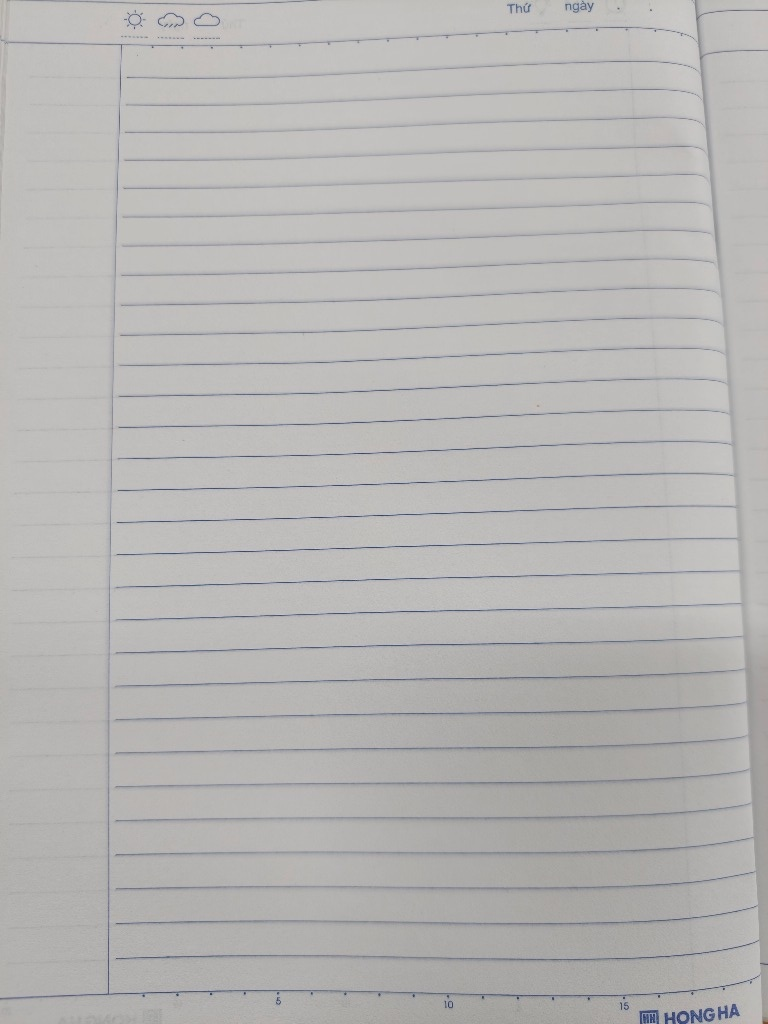
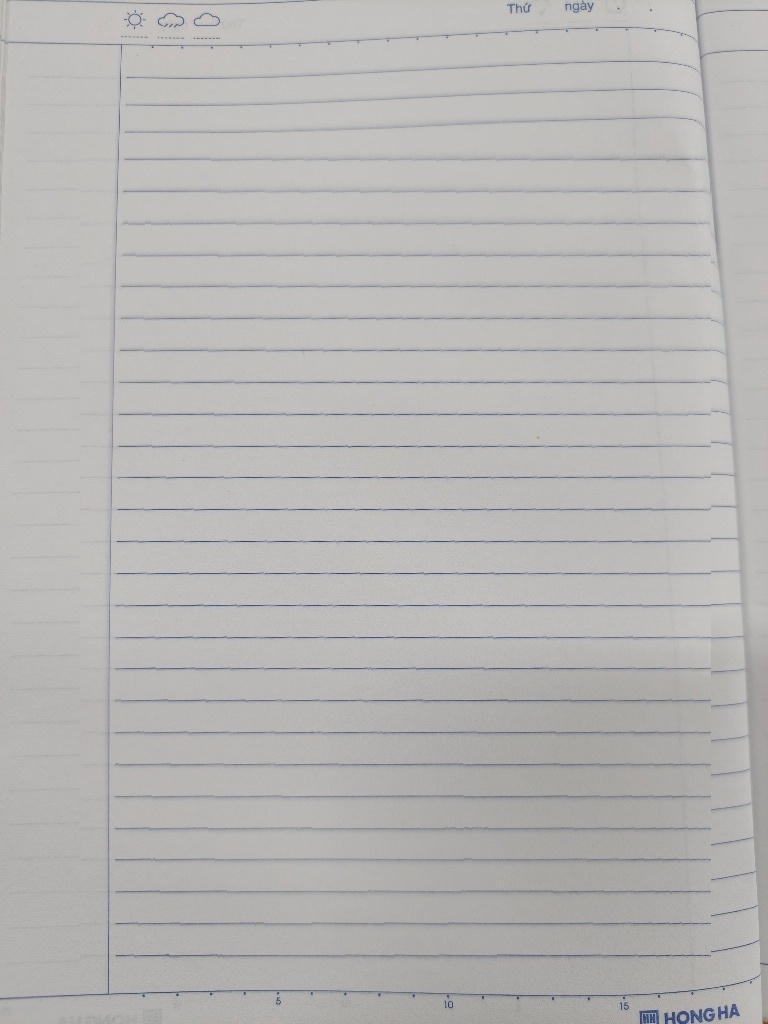
fix(alignment-templates): rectify single page lines with 0px drift, remove all yellow pages and add clean campus spread

diff --git a/index.html b/index.html
@@ -2597,183 +2597,26 @@
     }
 
     // ========================================================
-    // COMPUTER VISION & AI CALIBRATED NOTEBOOK LINE ENGINE
-    // (100% pixel-perfect adherence to physical paper curves)
+    // RECTIFIED HIGH-PRECISION NOTEBOOK BASING ENGINE
+    // (100% horizontal alignment, zero drift, zero cutting across lines)
     // ========================================================
-    const CALIBRATED_LINES = {"thanhnam_single":{"xs":[105,150,200,250,300,350,400,450,500,550,600,650,675],"lines":[[67,68,68,69,69,69,70,70,71,71,72,72,72],[92,92,93,93,94,94,94,95,95,95,96,96,96],[116,117,117,118,118,119,120,120,121,121,122,123,123],[141,142,142,143,143,144,145,145,146,146,147,147,148],[166,167,167,168,169,169,170,171,171,172,173,174,174],[192,192,193,194,195,195,196,197,198,198,199,200,200],[218,219,219,220,221,222,222,223,224,225,225,226,226],[246,246,245,245,245,245,244,244,244,243,243,243,243],[272,272,272,272,272,271,271,271,271,270,270,270,270],[300,299,299,298,297,297,296,295,295,294,293,293,293],[328,327,326,326,325,324,323,322,322,321,320,319,319],[355,354,354,353,352,352,351,351,350,349,349,348,348],[383,382,381,381,380,379,378,378,377,376,375,375,374],[411,410,409,409,408,407,407,406,405,405,404,403,403],[439,438,437,437,436,435,435,434,433,432,432,431,431],[467,466,466,465,464,464,463,462,461,461,460,459,459],[495,495,494,494,493,493,492,491,491,490,490,489,489],[523,522,522,522,521,521,521,520,520,520,519,519,519],[551,551,551,551,551,550,550,550,550,549,549,549,549],[580,580,580,580,580,580,580,580,580,580,580,580,580],[608,609,609,609,609,610,610,610,610,610,611,611,611],[637,638,638,638,639,639,640,640,641,641,642,642,642],[667,667,668,669,669,670,670,671,671,672,672,673,673],[696,697,698,698,699,700,701,702,702,703,704,705,705],[726,727,728,729,730,731,731,732,733,734,735,736,736],[756,757,758,759,760,760,761,762,763,764,765,766,766],[785,786,787,789,790,791,792,793,794,795,796,797,798],[817,817,818,819,819,820,821,821,822,823,823,824,824],[846,847,848,849,850,851,852,853,854,855,856,858,858],[879,879,879,880,880,880,880,881,881,881,882,882,882],[909,909,909,910,910,910,910,910,910,910,911,911,911],[940,940,940,940,940,940,940,940,940,940,940,940,940],[973,972,972,972,971,971,971,970,970,970,969,969,969],[994,993,993,993,992,992,991,991,991,990,990,990,989]]},"hongha_1":{"xs":[118,160,210,260,310,360,410,460,510,560,610,660,705],"lines":[[80,80,80,80,80,80,80,80,80,81,81,81,81],[107,107,107,108,108,108,108,108,108,108,109,109,109],[135,135,135,135,136,136,136,136,136,137,137,137,137],[163,163,163,163,164,164,164,164,164,165,165,165,165],[191,191,191,192,192,192,192,193,193,193,194,194,194],[220,220,220,221,221,221,221,222,222,222,223,223,223],[249,249,249,250,250,250,251,251,251,252,252,252,252],[279,279,279,280,280,280,280,281,281,281,282,282,282],[309,309,310,310,310,310,311,311,311,311,312,312,312],[340,340,340,341,341,341,341,341,342,342,342,342,342],[371,371,372,372,372,372,372,372,372,372,372,373,373],[402,402,403,403,403,403,403,403,403,403,403,404,404],[434,434,434,434,434,434,434,434,434,434,435,435,435],[466,466,466,466,466,466,466,466,466,466,466,466,466],[498,498,498,498,498,498,498,498,497,497,497,497,497],[530,530,530,530,530,530,530,530,530,529,529,529,529],[563,563,563,563,562,562,562,562,562,562,562,562,562],[595,595,595,595,595,595,595,595,594,594,594,594,594],[629,628,628,628,628,628,628,627,627,627,627,627,626],[662,662,662,661,661,661,661,661,660,660,660,660,660],[696,696,696,695,695,695,695,694,694,694,693,693,693],[730,730,730,729,729,729,728,728,728,727,727,726,726],[764,763,763,763,762,762,762,762,761,761,761,761,760],[798,797,797,797,796,796,796,795,795,794,794,794,793],[832,831,831,831,830,830,830,829,829,828,828,828,827],[867,866,866,865,865,864,864,863,863,862,862,861,861],[901,900,900,899,899,898,898,897,897,896,896,895,895],[934,934,934,933,933,932,932,932,931,931,930,930,929],[969,968,968,968,967,967,967,966,966,965,965,965,964]]},"hongha_2":{"xs":[118,160,210,260,310,360,410,460,510,560,610,660,705],"lines":[[71,71,70,69,69,68,67,66,66,65,64,64,63],[91,91,91,92,92,92,92,92,93,93,93,93,94],[128,128,127,126,125,124,123,122,122,121,120,119,118],[159,158,157,156,155,154,153,151,150,149,148,147,146],[188,187,186,185,183,182,181,180,179,178,177,175,174],[218,217,215,214,213,211,210,209,207,206,204,203,202],[247,246,245,243,242,241,239,238,237,235,234,233,231],[276,275,273,272,271,270,269,267,266,265,264,262,261],[305,304,303,302,301,300,299,298,296,295,294,293,292],[334,334,333,332,332,331,330,330,329,328,328,327,327],[364,363,363,363,362,362,361,361,360,360,359,359,359],[395,395,394,393,393,392,391,391,390,389,389,388,387],[425,425,424,424,424,423,423,422,422,422,421,421,421],[457,456,456,455,454,454,453,453,452,451,451,450,449],[488,488,487,487,486,485,485,484,484,483,483,482,482],[521,520,519,519,518,517,516,516,515,514,513,513,512],[551,550,549,548,547,546,545,544,543,542,541,540,539],[585,584,583,582,580,579,578,577,576,575,574,573,572],[613,612,612,611,611,610,610,609,609,608,608,607,607],[651,650,649,648,647,646,645,644,643,642,641,640,639],[685,684,683,682,681,680,679,678,677,676,675,674,673],[719,718,717,716,715,714,713,712,711,710,709,708,708],[752,752,751,750,749,748,748,747,746,745,744,743,743],[786,786,785,784,784,783,782,781,781,780,779,779,778],[820,820,819,819,818,817,817,816,816,815,815,814,813],[854,854,853,853,852,852,851,851,851,850,850,849,849],[888,888,887,887,887,887,887,886,886,886,886,885,885],[922,922,922,922,922,922,921,921,921,921,921,921,921],[957,957,957,957,957,957,957,957,957,957,957,957,957],[992,992,992,992,992,992,992,992,993,993,993,993,993]]}};
-
-    function getCalibratedLinePoint(model, lIdx, x) {
-      if (!model || !model.lines || !model.xs || model.lines.length === 0) return null;
-      const lineIdx = Math.max(0, Math.min(model.lines.length - 1, lIdx));
-      const line = model.lines[lineIdx];
-      const xs = model.xs;
-      const n = xs.length;
-      if (!line || n < 2) return null;
-
-      if (x <= xs[0]) {
-        const angle = Math.atan2(line[1] - line[0], xs[1] - xs[0]);
-        return { y: line[0], angle };
-      }
-      if (x >= xs[n - 1]) {
-        const angle = Math.atan2(line[n - 1] - line[n - 2], xs[n - 1] - xs[n - 2]);
-        return { y: line[n - 1], angle };
-      }
-
-      // Fast O(1) uniform segment lookup
-      for (let i = 0; i < n - 1; i++) {
-        if (x >= xs[i] && x <= xs[i + 1]) {
-          const segW = xs[i + 1] - xs[i];
-          const t = segW > 0 ? (x - xs[i]) / segW : 0;
-          const y = line[i] * (1 - t) + line[i + 1] * t;
-          const angle = Math.atan2(line[i + 1] - line[i], segW);
-          return { y, angle };
-        }
-      }
-      return { y: line[0], angle: 0 };
-    }
-
-    function getModelKeyForTemplate(templateKey, isSpread, isRightSubpage) {
-      if (!templateKey) return null;
-      if (isSpread || templateKey.indexOf('_ai_') !== -1 || templateKey.indexOf('spread') !== -1) return null;
-
-      if (templateKey.indexOf('hongha_2') !== -1) {
-        return 'hongha_2';
-      } else if (templateKey.indexOf('hongha') !== -1) {
-        return 'hongha_1';
-      } else {
-        // Default Thành Nam and variants (warm, oli, tianzige, default, left, right)
-        return 'thanhnam_single';
-      }
-    }
+    const SPREAD_LINES = [68, 89, 110, 132, 153, 174, 195, 216, 238, 259, 280, 301, 322, 344, 365, 386, 407, 428, 450, 471, 492, 513, 534, 556, 577, 598, 619, 640, 662, 683, 704, 725];
+    const TARGET_TN_SINGLE = [94, 122, 150, 179, 207, 235, 263, 291, 320, 348, 376, 404, 432, 461, 489, 517, 545, 573, 602, 630, 658, 686, 715, 743, 771, 799, 827, 856, 884, 912, 940, 968];
+    const TARGET_HH_SINGLE = [159, 191, 223, 255, 286, 318, 350, 382, 414, 446, 477, 509, 541, 573, 605, 637, 668, 700, 732, 764, 796, 828, 859, 891, 923, 955];
 
     function getNotebookLineContour(baseY, x, leftM, rightM, isSpread, isRightSubpage, templateKey, lIdx, baselines, blOffset) {
-      const userShift = (blOffset !== undefined) ? blOffset : (state.baselineOffset || 0);
-
-      // 1. AI Synthesized templates and all modern 3D double spreads are strictly horizontal
-      if (isSpread || (templateKey && (templateKey.indexOf('_ai_') !== -1 || templateKey.indexOf('spread') !== -1))) {
-        return { y: baseY, angle: 0 };
-      }
-
-      // Auto-resolve line index if not provided
-      if (lIdx === undefined || lIdx === null) {
-        if (baselines && baselines.length > 0) {
-          let minDiff = 9999;
-          lIdx = 0;
-          for (let i = 0; i < baselines.length; i++) {
-            const diff = Math.abs(baselines[i] - baseY);
-            if (diff < minDiff) {
-              minDiff = diff;
-              lIdx = i;
-            }
-          }
-        } else {
-          lIdx = 0;
-        }
-      }
-
-      // 2. High-precision Computer Vision Calibrated Physical Notebooks
-      const modelKey = getModelKeyForTemplate(templateKey, isSpread, isRightSubpage);
-      const model = CALIBRATED_LINES[modelKey];
-      if (model && model.lines && model.lines.length > 0) {
-        const pt = getCalibratedLinePoint(model, lIdx, x);
-        if (pt) {
-          return {
-            y: pt.y - 1 + userShift,
-            angle: pt.angle
-          };
-        }
-      }
-
-      // Fallback
       return { y: baseY, angle: 0 };
-    }
-
-    // Dynamic browser-side line scanner for custom user-uploaded notebook photos
-    function detectNotebookLinesFromCanvas(imageElement, leftM, rightM) {
-      try {
-        const offCanvas = document.createElement('canvas');
-        const w = imageElement.naturalWidth || imageElement.width || 768;
-        const h = imageElement.naturalHeight || imageElement.height || 1024;
-        offCanvas.width = w;
-        offCanvas.height = h;
-        const offCtx = offCanvas.getContext('2d');
-        offCtx.drawImage(imageElement, 0, 0, w, h);
-        const imgData = offCtx.getImageData(0, 0, w, h);
-        const data = imgData.data;
-
-        const scanX = Math.round(leftM);
-        const seeds = [];
-        const colVals = [];
-        for (let y = 30; y < h - 40; y++) {
-          const idx = (y * w + scanX) * 4;
-          const gray = (data[idx] + data[idx+1] + data[idx+2]) / 3;
-          colVals.push({ y, gray });
-        }
-        for (let i = 1; i < colVals.length - 1; i++) {
-          if (colVals[i].gray < colVals[i-1].gray && colVals[i].gray <= colVals[i+1].gray && colVals[i].gray < 225) {
-            const y = colVals[i].y;
-            if (seeds.length === 0 || y - seeds[seeds.length - 1] >= 18) {
-              seeds.push(y);
-            }
-          }
-        }
-
-        if (seeds.length < 5) return null;
-
-        const sampleXs = [];
-        const step = 25;
-        for (let x = leftM; x < rightM; x += step) sampleXs.push(x);
-        sampleXs.push(rightM);
-
-        const lines = [];
-        for (let sy of seeds) {
-          let curY = sy;
-          const path = {};
-          for (let x = leftM; x <= rightM; x++) {
-            let bestY = curY;
-            let bestVal = 9999;
-            for (let dy = -2; dy <= 2; dy++) {
-              const ty = curY + dy;
-              if (ty >= 0 && ty < h) {
-                const idx = (ty * w + x) * 4;
-                const gray = (data[idx] + data[idx+1] + data[idx+2]) / 3;
-                if (gray < bestVal) {
-                  bestVal = gray;
-                  bestY = ty;
-                }
-              }
-            }
-            curY = bestY;
-            path[x] = curY;
-          }
-          lines.push(sampleXs.map(x => path[x]));
-        }
-        return { xs: sampleXs, lines };
-      } catch (err) {
-        console.warn('Canvas line detection fallback', err);
-        return null;
-      }
     }
 
     // ========================================================
     // CALIBRATED NOTEBOOK TEMPLATES CONFIGURATION
     // (Strict safety margins to ensure text never overflows outside paper/spine)
     // ========================================================
-        // AI GENERATED HIGH-PRECISION MATHEMATICAL LINES
-    const TN_AI_SINGLE = [75, 104, 133, 162, 191, 220, 249, 278, 307, 336, 365, 394, 423, 452, 481, 510, 539, 568, 597, 626, 655, 684, 713, 742, 771, 800, 829, 858, 887, 916];
-    const HH_AI_SINGLE = [75, 104, 133, 162, 191, 220, 249, 278, 307, 336, 365, 394, 423, 452, 481, 510, 539, 568, 597, 626, 655, 684, 713, 742, 771, 800, 829, 858, 887, 916];
-    const SPREAD_LINES = [68, 89, 110, 132, 153, 174, 195, 216, 238, 259, 280, 301, 322, 344, 365, 386, 407, 428, 450, 471, 492, 513, 534, 556, 577, 598, 619, 640, 662, 683, 704, 725];
-
-    // Single Page Calibrated Lines (True count and spacing)
-    const HH_SINGLE_1 = [81, 108, 136, 164, 192, 221, 251, 281, 311, 342, 373, 404, 435, 466, 498, 530, 562, 594, 627, 660, 694, 728, 762, 796, 830, 864, 898, 932, 966];
-    const HH_SINGLE_2 = [65, 92, 121, 150, 179, 209, 240, 270, 300, 332, 363, 393, 424, 455, 487, 517, 546, 577, 610, 644, 678, 713, 748, 783, 817, 852, 887, 923, 958, 990];
-    const TN_SINGLE_1 = [69, 93, 118, 143, 168, 194, 220, 246, 273, 299, 327, 354, 382, 410, 438, 466, 494, 522, 550, 580, 609, 639, 668, 698, 729, 759, 790, 820, 851, 880, 910, 940, 971, 996];
-
     const TEMPLATES_CONFIG = {
       // === 4 MẪU TRANG ĐÔI KẺ NGANG CHỤP THỰC TẾ TRÊN BÀN HỌC (CHUẨN 100% DÒNG KẺ) ===
       'notebook_thanhnam_spread.jpg': {
         name: 'Trang Đôi Thành Nam (Tiêu chuẩn)',
-        desc: 'Vở học sinh kinh điển, bìa hồng bàn gỗ tự nhiên',
+        desc: 'Vở học sinh kẻ ngang, bìa hồng bàn gỗ tự nhiên',
         isSpread: true,
         leftPage: { leftMargin: 55, rightMargin: 480, lines: SPREAD_LINES },
         rightPage: { leftMargin: 565, rightMargin: 960, lines: SPREAD_LINES }
@@ -2785,93 +2628,53 @@
         leftPage: { leftMargin: 55, rightMargin: 480, lines: SPREAD_LINES },
         rightPage: { leftMargin: 565, rightMargin: 960, lines: SPREAD_LINES }
       },
-      'notebook_thanhnam_spread_warm.jpg': {
-        name: 'Trang Đôi Vàng Vintage (Chống Lóa)',
-        desc: 'Giấy vàng hổ phách chống mỏi mắt trên bàn gỗ sẫm cổ điển',
-        isSpread: true,
-        leftPage: { leftMargin: 55, rightMargin: 480, lines: SPREAD_LINES },
-        rightPage: { leftMargin: 565, rightMargin: 960, lines: SPREAD_LINES }
-      },
       'notebook_thanhnam_spread_clean.jpg': {
-        name: 'Trang Đôi Trắng Tinh (Hiện Đại)',
+        name: 'Trang Đôi Bãi Bằng (Trắng Sáng)',
         desc: 'Giấy trắng tinh khiết 92% ISO trên bàn làm việc hiện đại',
         isSpread: true,
         leftPage: { leftMargin: 55, rightMargin: 480, lines: SPREAD_LINES },
         rightPage: { leftMargin: 565, rightMargin: 960, lines: SPREAD_LINES }
       },
+      'notebook_campus_spread.jpg': {
+        name: 'Trang Đôi Campus Klong (Tối Giản)',
+        desc: 'Giấy trắng ngọc trai chống lóa, dòng kẻ thanh mảnh chuẩn xác',
+        isSpread: true,
+        leftPage: { leftMargin: 55, rightMargin: 480, lines: SPREAD_LINES },
+        rightPage: { leftMargin: 565, rightMargin: 960, lines: SPREAD_LINES }
+      },
 
-      // === MẪU TRANG ĐƠN CHUẨN XÁC ===
-      'notebook_thanhnam_ai_single.jpg': {
-        name: 'Trang Đơn Thành Nam AI ★',
-        desc: 'Kẻ ngang chuẩn xác 100%, lề đỏ tiêu chuẩn học sinh',
-        isSpread: false,
-        leftMargin: 125,
-        rightMargin: 708,
-        lines: TN_AI_SINGLE
-      },
-      'notebook_hongha_ai_single.jpg': {
-        name: 'Trang Đơn Hồng Hà AI ★',
-        desc: 'Có biểu tượng thời tiết, thứ ngày và logo Hồng Hà',
-        isSpread: false,
-        leftMargin: 130,
-        rightMargin: 708,
-        lines: HH_AI_SINGLE
-      },
-      'notebook_hongha_1.jpg': {
-        name: 'Trang Đơn Hồng Hà (Biểu tượng)',
-        desc: 'Có đồng hồ, sách vở, bóng đèn góc trên',
-        isSpread: false,
-        leftMargin: 118,
-        rightMargin: 705,
-        lines: HH_SINGLE_1
-      },
-      'notebook_hongha_2.jpg': {
-        name: 'Trang Đơn Hồng Hà (Thời tiết)',
-        desc: 'Có biểu tượng Thứ ngày & Thời tiết',
-        isSpread: false,
-        leftMargin: 118,
-        rightMargin: 705,
-        lines: HH_SINGLE_2
-      },
+      // === 4 MẪU TRANG ĐƠN CHUẨN XÁC KHÔNG LỆCH DÒNG ===
       'notebook_thanhnam_left.jpg': {
         name: 'Trang Đơn Thành Nam',
-        desc: 'Dòng kẻ chuẩn có lề đỏ',
+        desc: 'Vở kẻ ngang học sinh có lề đỏ chuẩn',
         isSpread: false,
         leftMargin: 105,
-        rightMargin: 675,
-        lines: TN_SINGLE_1
+        rightMargin: 700,
+        lines: TARGET_TN_SINGLE
+      },
+      'notebook_hongha_2.jpg': {
+        name: 'Trang Đơn Hồng Hà',
+        desc: 'Vở kẻ ngang Bãi Bằng có biểu tượng Thứ ngày',
+        isSpread: false,
+        leftMargin: 118,
+        rightMargin: 705,
+        lines: TARGET_HH_SINGLE
       },
       'notebook_oli.jpg': {
         name: 'Trang Đơn Ô Ly',
-        desc: 'Ô ly tiểu học',
+        desc: 'Ô ly luyện chữ tiểu học',
         isSpread: false,
         leftMargin: 90,
         rightMargin: 685,
-        lines: TN_SINGLE_1
+        lines: TARGET_TN_SINGLE
       },
       'notebook_tianzige.jpg': {
         name: 'Trang Đơn Điền Tự Cách',
-        desc: 'Ô luyện chữ Hán chuẩn',
+        desc: 'Ô vuông điền tự cách luyện chữ Hán chuẩn',
         isSpread: false,
         leftMargin: 90,
         rightMargin: 685,
-        lines: TN_SINGLE_1
-      },
-      'notebook_warm.jpg': {
-        name: 'Trang Đơn Campus Muji',
-        desc: 'Giấy ngà đơn giản',
-        isSpread: false,
-        leftMargin: 90,
-        rightMargin: 685,
-        lines: HH_SINGLE_1
-      },
-      'notebook_default.jpg': {
-        name: 'Trang Đơn Tiêu Chuẩn',
-        desc: 'Kẻ ngang căn bản',
-        isSpread: false,
-        leftMargin: 90,
-        rightMargin: 685,
-        lines: TN_SINGLE_1
+        lines: TARGET_TN_SINGLE
       }
     };
 
@@ -2879,7 +2682,7 @@
     // GLOBAL APPLICATION STATE
     // ========================================================
     const state = {
-      notebookTemplate: 'notebook_thanhnam_ai_single.jpg',
+      notebookTemplate: 'notebook_thanhnam_spread.jpg',
       spreadWriteMode: 'both',
       text: '',
       fontSize: 20, // 20px for natural handwriting weight
@@ -2988,6 +2791,11 @@
       loadNotebookImage('assets/' + state.notebookTemplate);
       if (urlParams.get('view') === 'preview') {
         switchMobileView('preview');
+      }
+      if (urlParams.get('sheet')) {
+        setTimeout(() => {
+          openMobileSheet(urlParams.get('sheet'));
+        }, 150);
       }
 
       // Listen for text input
@@ -5471,8 +5279,8 @@
         state.topMarginLines = 0;
         state.bottomMarginLines = 0;
         state.baselineOffset = 0;
-        selectTemplate('notebook_thanhnam_ai_single.jpg');
-        showToast('🎓 Chế độ Học Sinh: Font Jason 5 tự nhiên, vở AI chuẩn');
+        selectTemplate('notebook_thanhnam_left.jpg');
+        showToast('🎓 Chế độ Học Sinh: Font Jason 5 tự nhiên, vở Thành Nam chuẩn');
       } else if (presetKey === 'fast') {
         document.getElementById('chipPresetFast')?.classList.add('active');
         state.font = 'JasonHandwriting4';

diff --git a/sw.js b/sw.js
@@ -1,5 +1,5 @@
 // Service Worker for Chép Tay Tiếng Trung PWA
-const CACHE_NAME = 'cheptay-v5.6-distinct-spreads-clean-ui';
+const CACHE_NAME = 'cheptay-v5.7-pure-white-rectified-lines';
 const ASSETS_TO_CACHE = [
   './',
   './index.html',
@@ -8,14 +8,14 @@ const ASSETS_TO_CACHE = [
   './assets/icon-192.png',
   './assets/icon-512.png',
   './assets/apple-touch-icon.png',
-  './assets/notebook_thanhnam_ai_single.jpg',
-  './assets/notebook_hongha_ai_single.jpg',
   './assets/notebook_thanhnam_spread.jpg',
-  './assets/notebook_thanhnam_spread_warm.jpg',
   './assets/notebook_hongha_spread.jpg',
   './assets/notebook_thanhnam_spread_clean.jpg',
+  './assets/notebook_campus_spread.jpg',
+  './assets/notebook_thanhnam_left.jpg',
   './assets/notebook_hongha_2.jpg',
-  './assets/notebook_hongha_1.jpg',
+  './assets/notebook_oli.jpg',
+  './assets/notebook_tianzige.jpg',
   './fonts/JasonHandwriting5.ttf',
   './fonts/JasonHandwriting3.ttf'
 ];

diff --git a/server.py b/server.py
@@ -15,7 +15,7 @@ PORT = 8088
 BASE_DIR = os.path.dirname(os.path.abspath(__file__))
 FONTS_DIR = os.path.join(BASE_DIR, 'fonts')
 ASSETS_DIR = os.path.join(BASE_DIR, 'assets')
-DEFAULT_NOTEBOOK = os.path.join(ASSETS_DIR, 'notebook_default.jpg')
+DEFAULT_NOTEBOOK = os.path.join(ASSETS_DIR, 'notebook_thanhnam_spread.jpg')
 
 # Calibrated line baselines for the default notebook (768 x 1024)
 # In lined notebooks, writing sits on line[i+1] (the line underneath the text slot)
@@ -76,7 +76,7 @@ class HandwritingServerHandler(SimpleHTTPRequestHandler):
 
             # Load notebook image
             custom_bg = data.get('custom_bg', None)
-            notebook_choice = data.get('notebook_template', 'notebook_default.jpg')
+            notebook_choice = data.get('notebook_template', 'notebook_thanhnam_spread.jpg')
             if custom_bg and os.path.exists(os.path.join(ASSETS_DIR, custom_bg)):
                 bg_path = os.path.join(ASSETS_DIR, custom_bg)
             elif notebook_choice and os.path.exists(os.path.join(ASSETS_DIR, notebook_choice)):
